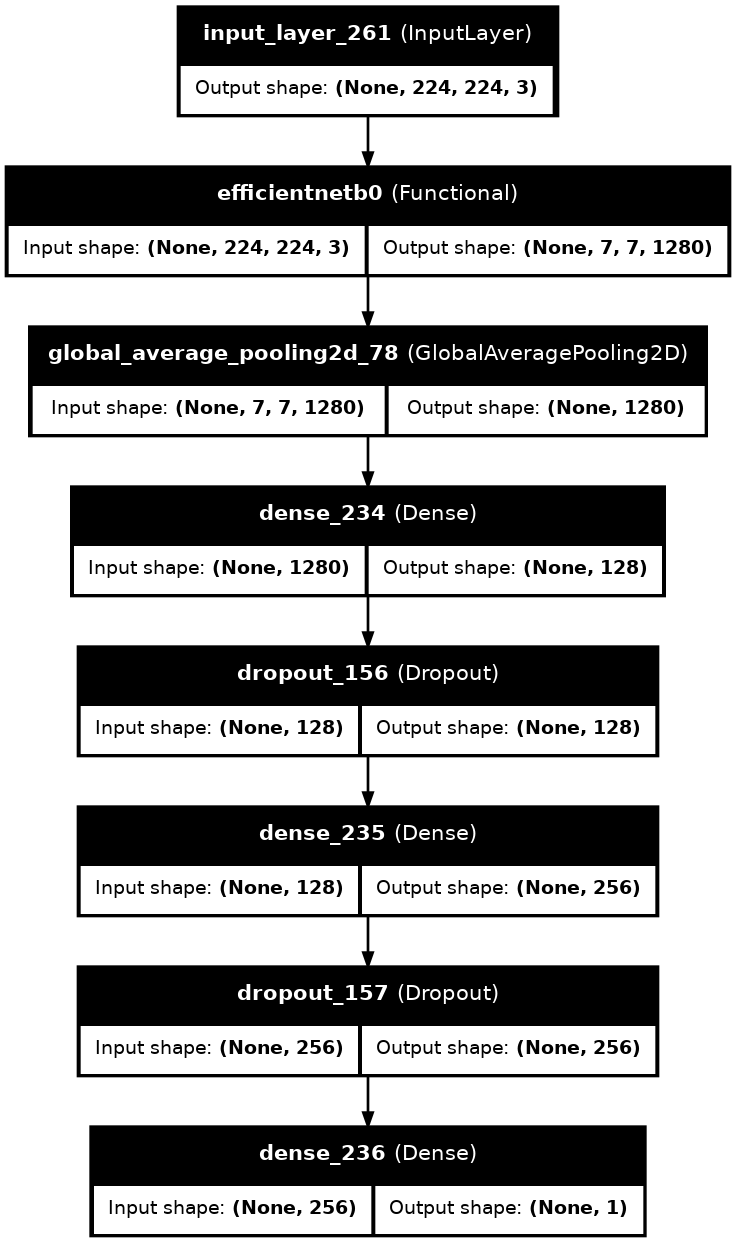
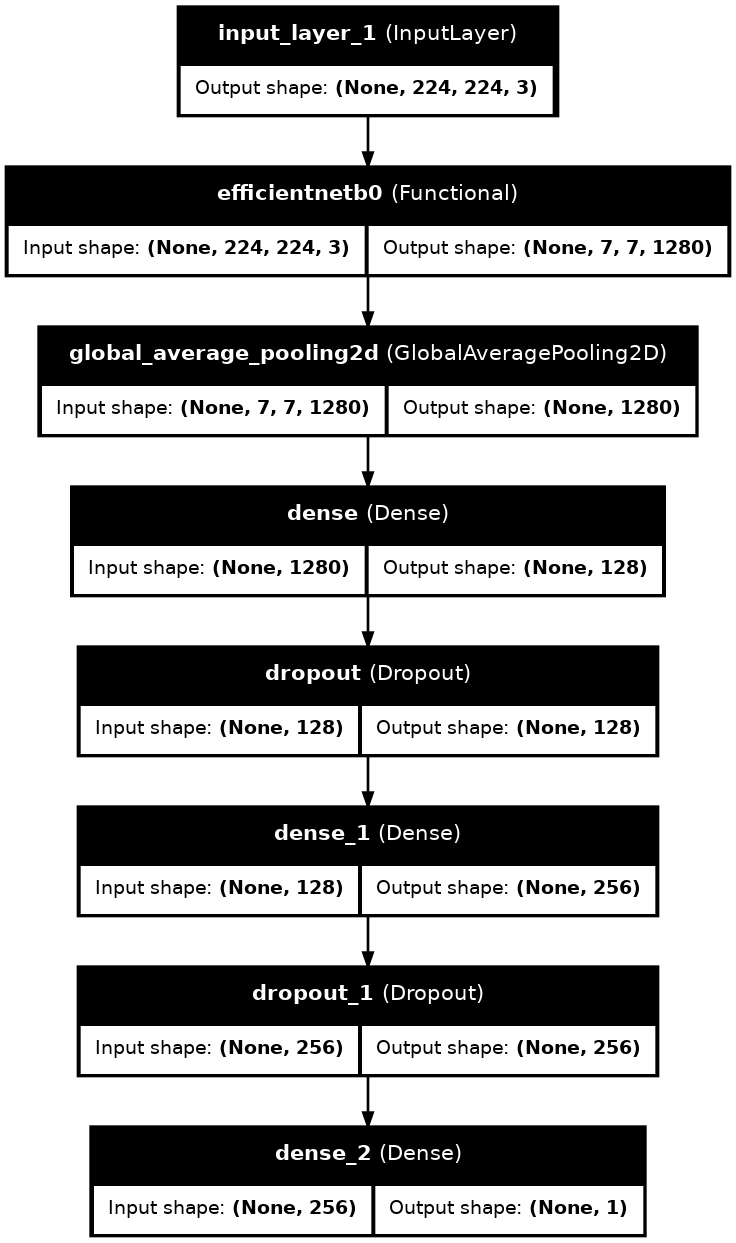
Refactor evaluation metrics and thresholds in project documentation and code
- Updated test set results in PROJECT_OVERVIEW.md and README.md to reflect Youden's Index thresholds.
- Revised statistical tests section to align with new threshold values.
- Modified final_evaluation.py to load and log Youden's Index threshold correctly.
- Adjusted rq3_bpnn_comparison.py to compute and log Youden's Index thresholds instead of sweep thresholds.
- Updated results in rq3_results.json to include new metrics and thresholds.
- Added detailed logging for BPNN hyperparameter search and evaluation results.
- Updated binary images in results directory to reflect changes in model evaluations.

diff --git a/rq3_bpnn_comparison.py b/rq3_bpnn_comparison.py
@@ -222,13 +222,14 @@ def main():
     best_params = gs.best_params_
     log(f"Best params: {best_params}  (CV AUC={gs.best_score_:.4f})")
 
-    # ── Phase 2: 5-fold CV with best params — find sweep threshold ────────────
+    # ── Phase 2: 5-fold CV with best params — Youden's Index threshold ──────────
     log(f"\n{'='*80}")
-    log(f"RQ3: BPNN 5-FOLD CV — Threshold sweep (best params)")
+    log(f"RQ3: BPNN 5-FOLD CV — Youden's Index threshold (best params)")
     log(f"{'='*80}")
 
-    fold_iters   = []
-    all_y_val    = []
+    fold_iters    = []
+    youden_thrs   = []
+    all_y_val     = []
     all_probs_val = []
     for i, fi in enumerate(fold_indices):
         X_tr, y_tr = X_feat[fi['train_idx']], labels[fi['train_idx']]
@@ -253,47 +254,24 @@ def main():
         probs_v = bpnn.predict_proba(X_v_s)[:, 1]
 
         auc_v = roc_auc_score(y_v, probs_v)
+        y_thr, y_sens_f, y_spec_f = compute_youden_threshold(y_v, probs_v)
+        youden_thrs.append(y_thr)
         fold_iters.append(bpnn.n_iter_)
         all_y_val.append(y_v)
         all_probs_val.append(probs_v)
-        log(f"  Fold {i+1}: AUC={auc_v:.4f}  stop_iter={bpnn.n_iter_}")
+        log(f"  Fold {i+1}: AUC={auc_v:.4f}  stop_iter={bpnn.n_iter_}  Youden_thr={y_thr:.4f}")
 
-    # Sweep threshold on combined val predictions
-    all_y_val    = np.concatenate(all_y_val)
+    all_y_val     = np.concatenate(all_y_val)
     all_probs_val = np.concatenate(all_probs_val)
-    best_sweep_thr, best_sweep_sens = None, 0.0
-    best_j_thr, best_j = 0.5, -1.0
-    log(f"\n  Threshold sweep (0.05–0.95, step=0.05):")
-    for t in np.arange(0.05, 1.0, 0.05):
-        pred = (all_probs_val >= t).astype(int)
-        tp = ((pred==1)&(all_y_val==1)).sum()
-        tn = ((pred==0)&(all_y_val==0)).sum()
-        fp = ((pred==1)&(all_y_val==0)).sum()
-        fn = ((pred==0)&(all_y_val==1)).sum()
-        sens = tp/(tp+fn) if (tp+fn)>0 else 0
-        spec = tn/(tn+fp) if (tn+fp)>0 else 0
-        j = sens + spec - 1
-        log(f"    thr={t:.2f}  Sens={sens:.4f}  Spec={spec:.4f}  J={j:.4f}")
-        if j > best_j:
-            best_j = j
-            best_j_thr = round(float(t), 2)
-        if sens >= 0.70 and spec >= 0.70 and sens > best_sweep_sens:
-            best_sweep_sens = sens
-            best_sweep_thr  = round(float(t), 2)
-
-    if best_sweep_thr is None:
-        best_sweep_thr = best_j_thr
-        log(f"  ⚠ No threshold satisfies both Sens≥0.70 & Spec≥0.70 — using max J fallback: {best_j_thr:.2f}")
-
-    mean_youden = best_sweep_thr   # reuse variable name for compatibility
-    avg_iter    = int(round(np.mean(fold_iters)))
-    # Compute actual sens/spec at chosen threshold for display
+    mean_youden   = float(np.mean(youden_thrs))
+    avg_iter      = int(round(np.mean(fold_iters)))
     _pred_final = (all_probs_val >= mean_youden).astype(int)
     _tp = ((_pred_final==1)&(all_y_val==1)).sum(); _fn = ((_pred_final==0)&(all_y_val==1)).sum()
     _tn = ((_pred_final==0)&(all_y_val==0)).sum(); _fp = ((_pred_final==1)&(all_y_val==0)).sum()
     _sens = _tp/(_tp+_fn) if (_tp+_fn)>0 else 0
     _spec = _tn/(_tn+_fp) if (_tn+_fp)>0 else 0
-    log(f"\n✓ Sweep threshold (BPNN): {mean_youden:.2f}  (Sens={_sens:.4f}  Spec={_spec:.4f})")
+    log(f"\n✓ Mean Youden threshold (BPNN): {mean_youden:.4f}  (Sens={_sens:.4f}  Spec={_spec:.4f})")
+    log(f"  Per-fold thresholds: {[round(t, 4) for t in youden_thrs]}")
     log(f"✓ Avg stopping iteration : {avg_iter}  (per fold: {fold_iters})")
 
     # ── Final BPNN on full training set ───────────────────────────────────────
@@ -333,39 +311,16 @@ def main():
             rq3 = json.load(f)
         cnn_name = rq3['best_model']
 
-        # Compute CNN sweep threshold from 5-fold val predictions
-        cnn_val_path = os.path.join(CONFIG['checkpoint_dir'], f'{cnn_name}_val_preds.npz')
-        log(f"\n{'='*80}")
-        log(f"RQ3: CNN THRESHOLD SWEEP — {cnn_name} (step=0.05)")
-        log(f"{'='*80}")
-        if os.path.exists(cnn_val_path):
-            _val_data = np.load(cnn_val_path)
-            _cnn_y = np.concatenate([labels[fi['val_idx']]               for fi in fold_indices])
-            _cnn_p_val = np.concatenate([_val_data[f'fold{fi["fold"]+1}'] for fi in fold_indices])
-            _best_cnn_thr, _best_cnn_sens = None, 0.0
-            _best_cnn_j_thr, _best_cnn_j = 0.5, -1.0
-            for t in np.arange(0.05, 1.0, 0.05):
-                _pred = (_cnn_p_val >= t).astype(int)
-                _tp = ((_pred==1)&(_cnn_y==1)).sum(); _fn = ((_pred==0)&(_cnn_y==1)).sum()
-                _tn = ((_pred==0)&(_cnn_y==0)).sum(); _fp = ((_pred==1)&(_cnn_y==0)).sum()
-                _s = _tp/(_tp+_fn) if (_tp+_fn)>0 else 0
-                _sp = _tn/(_tn+_fp) if (_tn+_fp)>0 else 0
-                _j = _s + _sp - 1
-                log(f"  thr={t:.2f}  Sens={_s:.4f}  Spec={_sp:.4f}  J={_j:.4f}")
-                if _j > _best_cnn_j:
-                    _best_cnn_j = _j
-                    _best_cnn_j_thr = round(float(t), 2)
-                if _s >= 0.70 and _sp >= 0.70 and _s > _best_cnn_sens:
-                    _best_cnn_sens = _s
-                    _best_cnn_thr  = round(float(t), 2)
-            if _best_cnn_thr is None:
-                _best_cnn_thr = _best_cnn_j_thr
-                log(f"  ⚠ CNN: No threshold satisfies both Sens≥0.70 & Spec≥0.70 — using max J: {_best_cnn_j_thr:.2f}")
-            cnn_thr = _best_cnn_thr
-            log(f"✓ CNN sweep threshold: {cnn_thr:.2f}")
+        # Load CNN Youden threshold from threshold_optimization step
+        threshold_path = os.path.join(CONFIG['results_dir'], 'threshold_results.json')
+        if os.path.exists(threshold_path):
+            with open(threshold_path) as _tf:
+                _thr_data = json.load(_tf)
+            cnn_thr = _thr_data['mean_youden_threshold']
+            log(f"✓ CNN Youden threshold: {cnn_thr:.4f}  (from threshold_results.json)")
         else:
-            cnn_thr = 0.6
-            log(f"  ⚠ {cnn_val_path} not found — using default thr=0.60")
+            cnn_thr = rq3.get('threshold', 0.7318)
+            log(f"✓ CNN Youden threshold: {cnn_thr:.4f}  (from final_eval_results.json)")
 
         cnn_probs_path = os.path.join(CONFIG['results_dir'], 'final_eval_probs.npy')
         if os.path.exists(cnn_probs_path):

diff --git a/final_evaluation.py b/final_evaluation.py
@@ -56,12 +56,12 @@ def main():
     with open(os.path.join(CONFIG['results_dir'], 'rq1_results.json')) as f:
         rq1 = json.load(f)
     with open(os.path.join(CONFIG['results_dir'], 'threshold_results.json')) as f:
-        rq2 = json.load(f)
+        thr_data = json.load(f)
 
     best_model = rq1['best_model']
-    threshold  = rq2['mean_youden_threshold']
+    threshold  = thr_data['mean_youden_threshold']
     log(f"Best backbone : {best_model}")
-    log(f"Threshold     : {threshold:.4f}  (mean Youden's J from RQ2)")
+    log(f"Threshold     : {threshold:.4f}  (mean Youden's J)")
 
     # ── Load average stopping epochs from K-fold CV ───────────────────────────
     avg_epochs_path = os.path.join(CONFIG['checkpoint_dir'],

diff --git a/README.md b/README.md
@@ -162,16 +162,16 @@ $$J = \text{Sensitivity} + \text{Specificity} - 1 \qquad \text{threshold}^* = \a
 
 **Average stopping epochs** (ConvNeXt-Tiny): Phase 1 = **50**, Phase 2 = **46**
 
-**Test set results**:
+**Test set results** (thr=0.7318, Youden's Index):
 
-| Metric | Youden (thr=0.7318) | Sweep (thr=0.60) |
-|--------|---------------------|------------------|
-| AUC-ROC | **0.9150** | **0.9150** |
-| Sensitivity | 0.9592 | **0.9796** |
-| Specificity | **0.6667** | **0.6667** |
-| PPV | 0.8868 | 0.8889 |
-| NPV | 0.8571 | 0.9231 |
-| F1-Score | 0.9216 | 0.9320 |
+| Metric | Value |
+|--------|-------|
+| AUC-ROC | 0.9150 |
+| Sensitivity | 0.9592 |
+| Specificity | 0.6667 |
+| PPV | 0.8868 |
+| NPV | 0.8571 |
+| F1-Score | 0.9216 |
 
 ---
 
@@ -204,26 +204,26 @@ Output: 4-panel images (Original / Grad-CAM / Grad-CAM++ / Eigen-CAM) saved to `
 | GLCM | 8-level, 4 angles (0/45/90/135°), 4 properties × 4 angles | 16 |
 | HOG | 8×8 cells, 8 statistics (mean, std, var, median, max, min, skew, kurtosis) | 8 |
 
-**Best Baseline Model**: architecture=(256, 128), activation=tanh, α=0.0001, sweep thr=0.55
+**Best Baseline Model**: architecture=(256, 128), activation=tanh, α=0.0001, Youden thr=0.5792
 
-Thresholds selected via sweep (0.05–0.95, step=0.05) on combined 5-fold validation predictions — highest Sensitivity where both Sens ≥ 0.70 and Spec ≥ 0.70.
+Thresholds selected via Youden's Index per fold, averaged across 5 folds.
 
-**Comparison on test set** (Proposed thr=0.60, Baseline thr=0.55):
+**Comparison on test set** (Proposed thr=0.7318, Baseline thr=0.5792):
 
 | Metric | Proposed Model (ConvNeXt-Tiny) | Baseline Model (GLCM+HOG) | Δ |
 |--------|-------------------------------|--------------------------|---|
-| Sensitivity | 0.9796 | 0.8776 | +0.1020 |
+| Sensitivity | 0.9592 | 0.8367 | +0.1225 |
 | Specificity | 0.6667 | 0.6111 | +0.0556 |
 | AUC-ROC | 0.9150 | 0.8526 | +0.0624 |
-| PPV | 0.8889 | 0.8600 | +0.0289 |
-| NPV | 0.9231 | 0.6471 | +0.2760 |
-| F1-Score | 0.9320 | 0.8687 | +0.0634 |
+| PPV | 0.8868 | 0.8542 | +0.0326 |
+| NPV | 0.8571 | 0.5789 | +0.2782 |
+| F1-Score | 0.9216 | 0.8454 | +0.0762 |
 
-**Statistical tests** (Proposed thr=0.60, Baseline thr=0.55):
+**Statistical tests** (Proposed thr=0.7318, Baseline thr=0.5792):
 
 | Test | Result | p-value | Significance |
 |------|--------|---------|--------------|
-| McNemar's Test (H₀: same error pattern) | b=8 (Proposed✓/Baseline✗), c=2 (Proposed✗/Baseline✓) | 0.1094 | ns |
+| McNemar's Test (H₀: same error pattern) | b=10 (Proposed✓/Baseline✗), c=3 (Proposed✗/Baseline✓) | 0.0923 | ns |
 | DeLong's Test (H₀: AUC_Proposed = AUC_Baseline) | ΔAUC = +0.0624 | 0.3591 | ns |
 
 > Neither test reached significance — the two models are statistically equivalent on this test set.

diff --git a/PROJECT_OVERVIEW.md b/PROJECT_OVERVIEW.md
@@ -211,14 +211,14 @@ threshold* = argmax(TPR − FPR)
 
 **Test set results**:
 
-| Metric | Youden (thr=0.7318) | Sweep (thr=0.60) |
-|--------|---------------------|------------------|
-| AUC-ROC | **0.9150** | **0.9150** |
-| Sensitivity | 0.9592 | **0.9796** |
-| Specificity | **0.6667** | **0.6667** |
-| PPV | 0.8868 | 0.8889 |
-| NPV | 0.8571 | 0.9231 |
-| F1-Score | 0.9216 | 0.9320 |
+| Metric | Youden (thr=0.7318) |
+|--------|---------------------|
+| AUC-ROC | 0.9150 |
+| Sensitivity | 0.9592 |
+| Specificity | 0.6667 |
+| PPV | 0.8868 |
+| NPV | 0.8571 |
+| F1-Score | 0.9216 |
 
 **Results saved to**: `results/final_eval_results.json`, `results/final_eval_probs.npy`
 
@@ -286,24 +286,24 @@ GradientTape.watch(conv_out) is used before running clf_model
   - `alpha`: {1e-4, 1e-3, 1e-2}
 - Best architecture: **(256, 128), tanh, α=0.0001**
 - Avg stopping iterations: **28** (per fold: 24, 24, 24, 39, 30)
-- Threshold: Sweep-based (step=0.05, 0.05–0.95) = **0.55** (Sens=0.708 ✓, Spec=0.736 ✓ on combined val)
+- Threshold: Youden's Index (mean across 5 folds) = **0.5792**
 
-**Comparison Table** (CNN thr=0.60 sweep-selected; Baseline thr=0.55 sweep-selected):
+**Comparison Table** (CNN thr=0.7318 Youden; Baseline thr=0.5792 Youden):
 
 | Metric | Proposed Model (ConvNeXt-Tiny) | Baseline Model (GLCM+HOG) | Δ |
 |--------|-------------------------------|--------------------------|---|
-| Sensitivity | 0.9796 | 0.8776 | +0.1020 |
+| Sensitivity | 0.9592 | 0.8367 | +0.1225 |
 | Specificity | 0.6667 | 0.6111 | +0.0556 |
 | AUC-ROC | 0.9150 | 0.8526 | +0.0624 |
-| PPV | 0.8889 | 0.8600 | +0.0289 |
-| NPV | 0.9231 | 0.6471 | +0.2760 |
-| F1-Score | 0.9320 | 0.8687 | +0.0634 |
+| PPV | 0.8868 | 0.8542 | +0.0326 |
+| NPV | 0.8571 | 0.5789 | +0.2782 |
+| F1-Score | 0.9216 | 0.8454 | +0.0762 |
 
-**Statistical Tests** (Proposed thr=0.60, Baseline thr=0.55):
+**Statistical Tests** (Proposed thr=0.7318, Baseline thr=0.5792):
 
 | Test | H₀ | Result | p-value | Sig. |
 |------|----|--------|---------|------|
-| McNemar's Test | Both models make same errors | b=8 (Proposed✓/Baseline✗), c=2 (Proposed✗/Baseline✓) | 0.1094 | ns |
+| McNemar's Test | Both models make same errors | b=10 (Proposed✓/Baseline✗), c=3 (Proposed✗/Baseline✓) | 0.0923 | ns |
 | DeLong's Test | AUC_Proposed = AUC_Baseline | ΔAUC = +0.0624 | 0.3591 | ns |
 
 > Neither test reached significance — the two models are statistically equivalent on this test set.

diff --git a/WORKFLOW_CONTEXT.md b/WORKFLOW_CONTEXT.md
@@ -89,9 +89,8 @@
    - Phase 1: 50 epochs (avg จาก CV), **ไม่มี** early stopping
    - Phase 2: 46 epochs (avg จาก CV), **ไม่มี** early stopping
 2. ทำนายบน Test set (67 ภาพ) → บันทึก probabilities ไว้ใน `final_eval_probs.npy`
-3. ประเมินด้วย 2 threshold:
+3. ประเมินด้วย Youden threshold (primary):
    - **Youden (0.7318)**: AUC=0.9150, Sens=0.9592, Spec=0.6667
-   - **Sweep (0.60)**: AUC=0.9150, Sens=0.9796, Spec=0.6667
 
 ---
 
@@ -115,11 +114,11 @@
    - GLCM 16-dim (8 ระดับ, 4 มุม, 4 properties)
    - HOG 8-dim (8×8 cells, 8 statistics)
 2. **GridSearchCV** 5-fold หา best BPNN architecture
-3. Retrain BPNN บน full training set, ทำนายบน Test set ด้วย sweep threshold
+3. Retrain BPNN บน full training set, ทำนายบน Test set ด้วย Youden threshold
 4. เปรียบเทียบ metrics กับ CNN
 5. ทดสอบ statistical significance: McNemar's Test + DeLong's Test
 
-**ผลลัพธ์** (CNN thr=0.60, BPNN thr=0.55):
-- Proposed Model (ConvNeXt-Tiny): AUC=0.9150, Sens=0.9796, Spec=0.6667
-- Baseline (BPNN, GLCM+HOG): AUC=0.8526, Sens=0.8776, Spec=0.6111
-- ไม่พบความแตกต่างที่ significant (McNemar p=0.1094, DeLong p=0.3591)
+**ผลลัพธ์** (CNN thr=0.7318, BPNN thr=0.5792):
+- Proposed Model (ConvNeXt-Tiny): AUC=0.9150, Sens=0.9592, Spec=0.6667
+- Baseline (BPNN, GLCM+HOG): AUC=0.8526, Sens=0.8367, Spec=0.6111
+- ไม่พบความแตกต่างที่ significant (McNemar p=0.0923, DeLong p=0.3591)